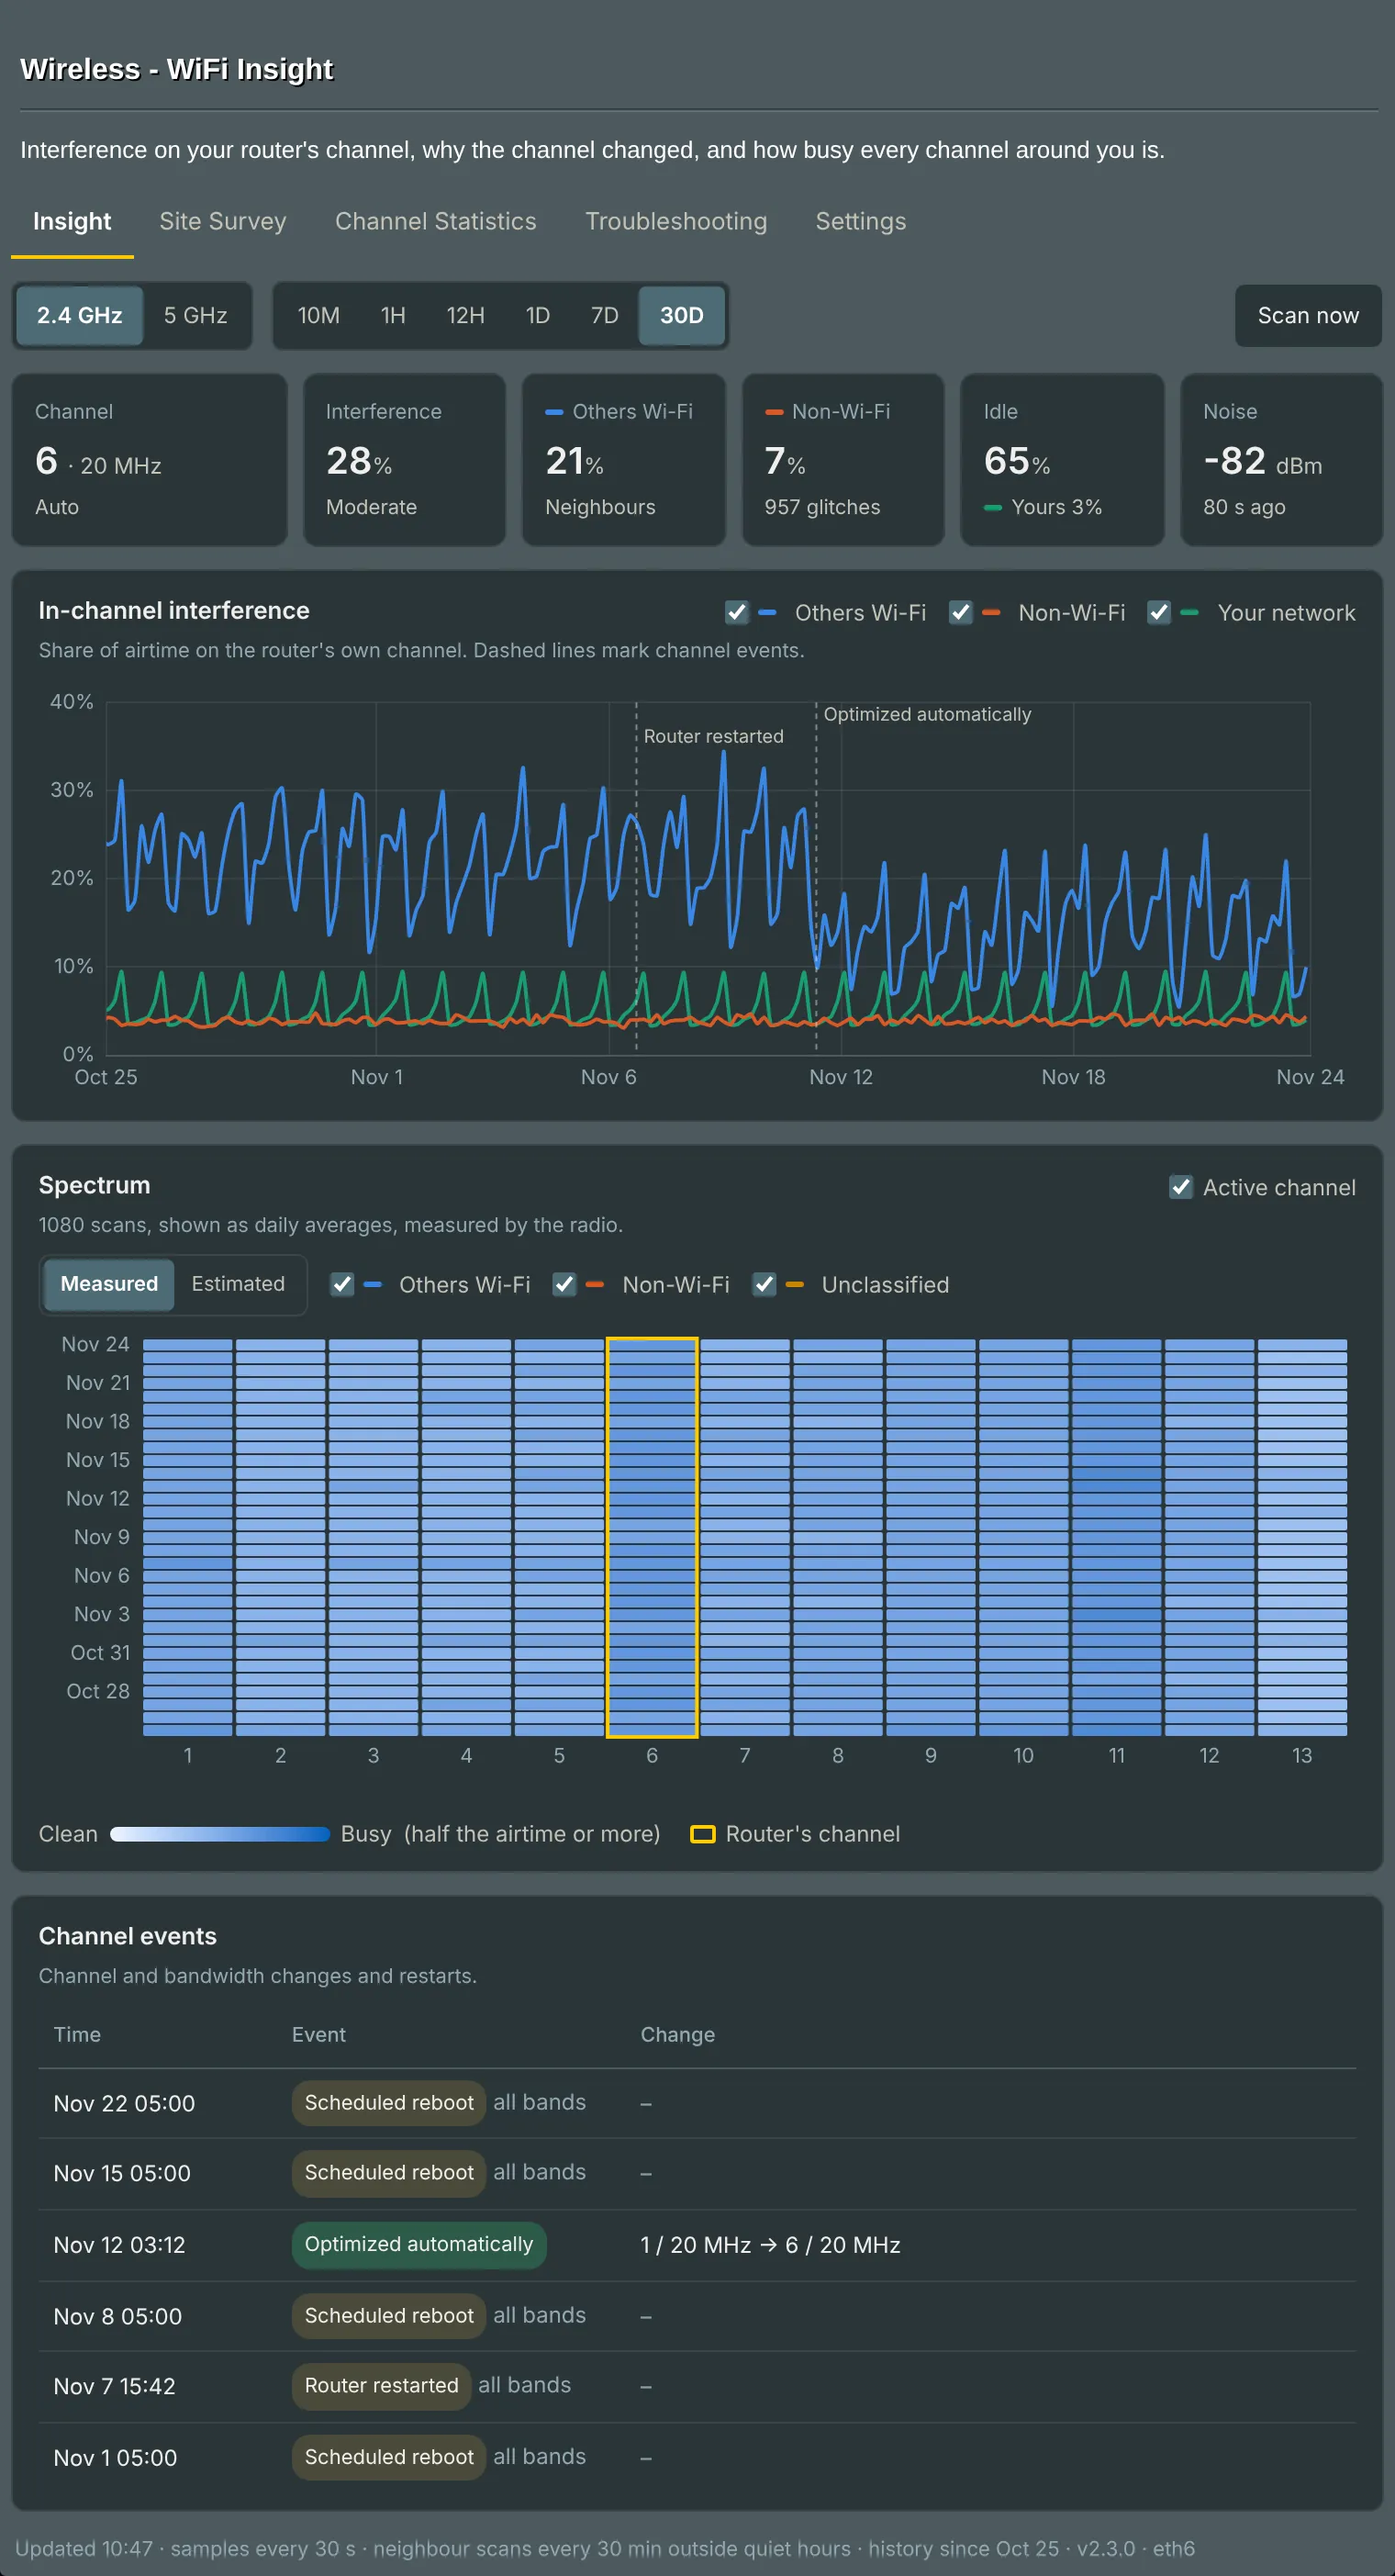
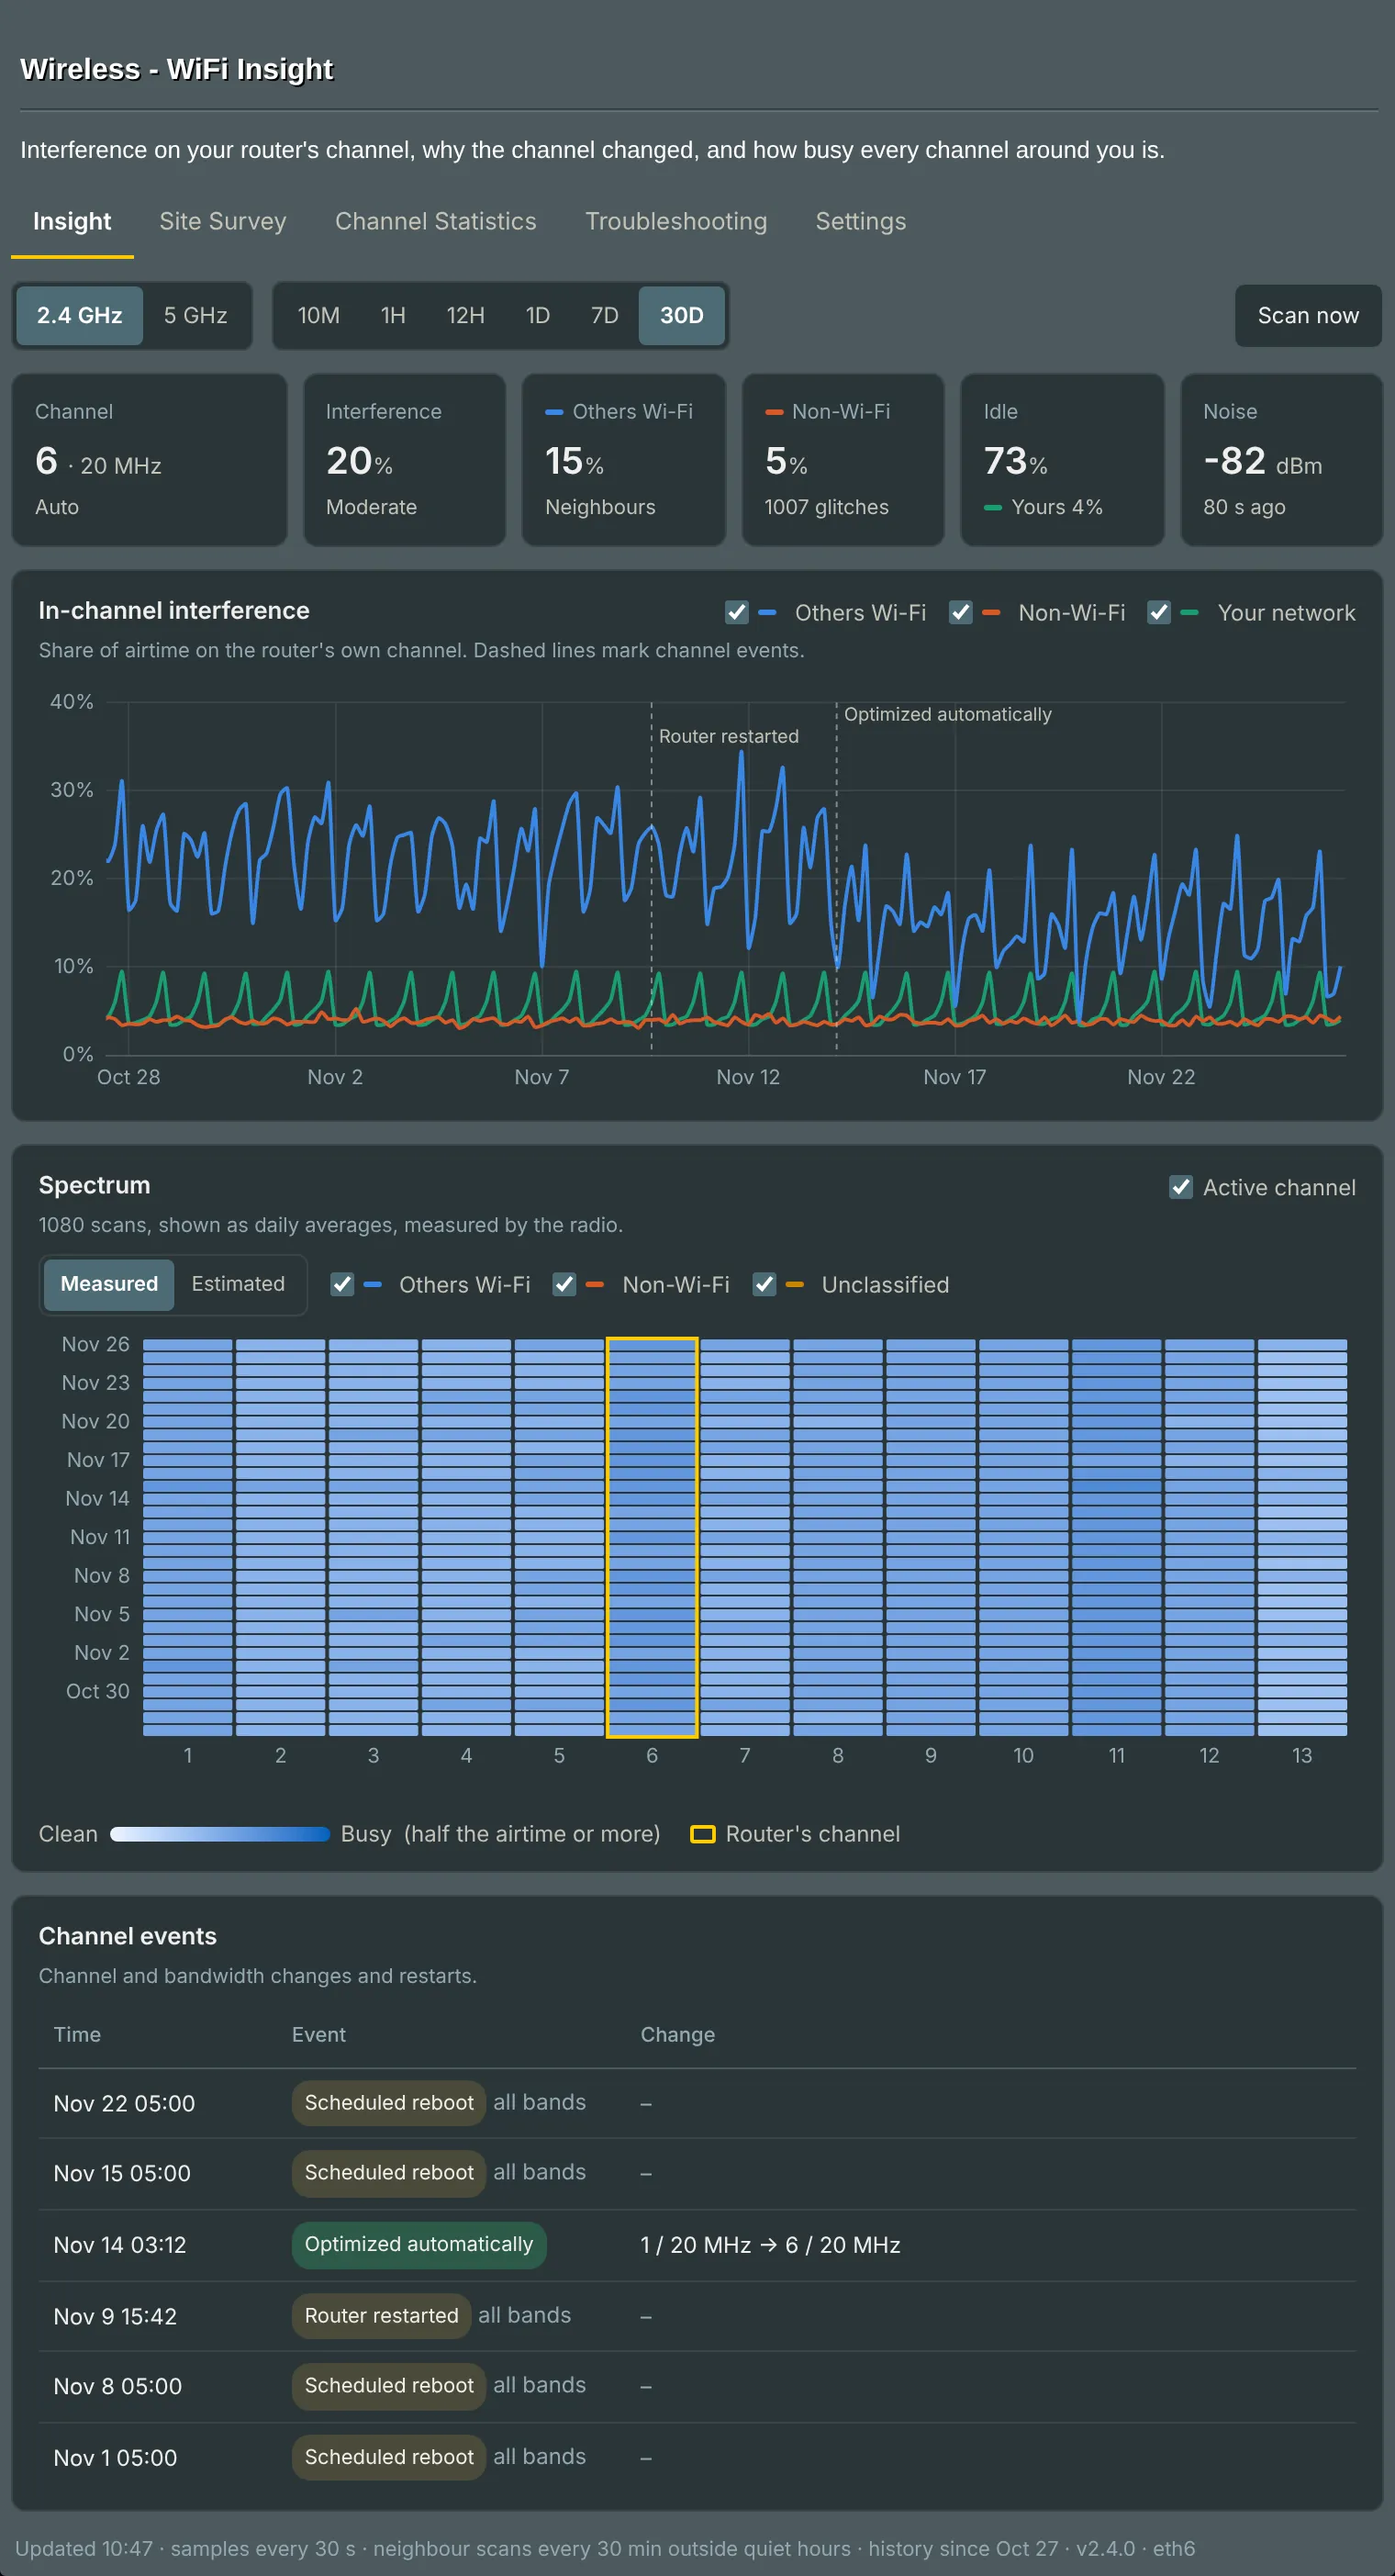
Release 2.4.0
The router no longer logs you out while the page is open, the time axis
is labelled at round local times, and a few rows a failing USB drive
damaged no longer empty the 30-day charts.

Demo and screenshots regenerated with this version (7D and 30D show the
new time axis), from the same made-up data at 10:47 router time.

Claude-Session: https://claude.ai/code/session_01VjX2v23dnXKWe3vGcpYo2a

diff --git a/CHANGELOG.md b/CHANGELOG.md
@@ -2,7 +2,9 @@
 
 What changed in each release of WiFi Insight. The release workflow copies a version's section into its GitHub release notes, so write for people running the addon.
 
-## Unreleased
+## 2.4.0
+
+The router no longer logs you out while the page is open, the time axis is labelled at round local times, and a few rows a failing USB drive damaged no longer empty the 30-day charts.
 
 - **The router no longer logs you out while the page is open.** The router's *Auto Logout* (30 minutes by default) counts the time since your last click, so with WiFi Insight open to watch, you were logged out mid-view. The page now turns that off while it's open, as the router's own System Log and real-time Traffic Monitor pages do. Thanks to Squall Leonhart for the suggestion.
 - **The charts' time axis has its ticks on round local times.** It put them wherever the chart library's number steps fell: on 7D, every 27.8 hours, labelled *Tue 03h, Wed 06h, Thu 09h…*, with the range's two ends as the first and last. Now 7D has one per day at midnight (*Wed 19*), 30D one every 5 days, and the shorter ranges every 3 h, 2 h, 10 min or 2 min of the day, by your browser's clock. Checked in every time zone, across every clock change of 2026 and 2027: a time the clocks skip gets no tick, the hour they repeat gets its ticks twice, and zones 30 or 45 minutes off the hour get their own round times. Thanks to scootertramp for the report.
